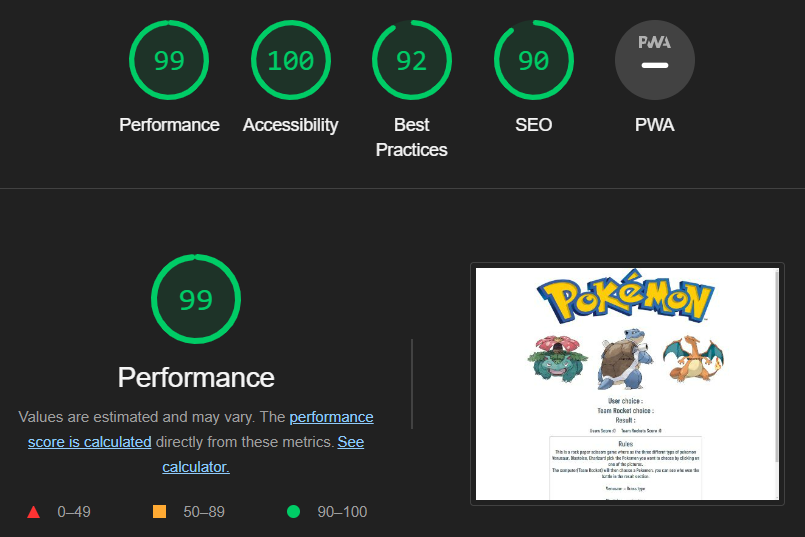
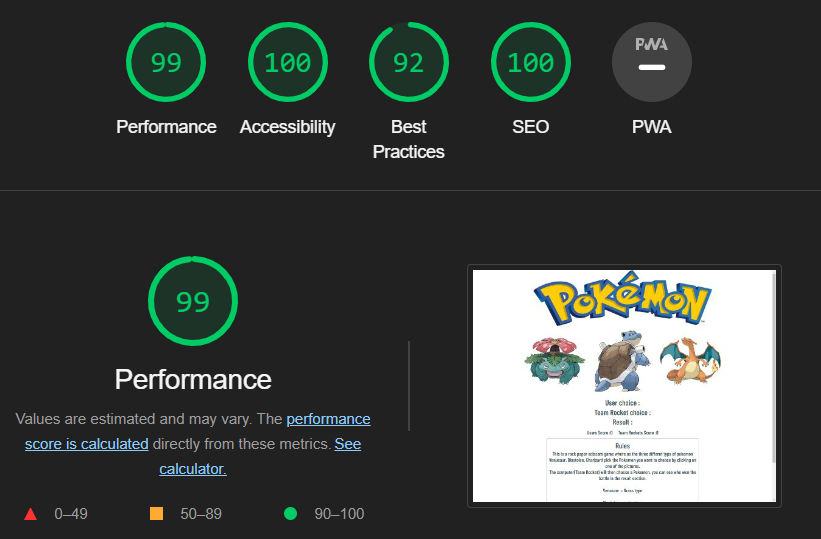
Hide text on the pokemon choice and add to readme

diff --git a/assets/css/style.css b/assets/css/style.css
@@ -47,6 +47,7 @@ body {
 
 /* --- Buttons */
 
+
 #Blastoise {
     background-image: url("https://assets.pokemon.com/assets/cms2/img/pokedex/full/009.png");
     place-content: center;
@@ -105,8 +106,7 @@ h2 {
 #Charizard,
 #Blastoise {
     background-color: transparent;
-    height: 300px;
-    width: 300px;
+    font-size:0px;
 }
 
 img {

diff --git a/index.html b/index.html
@@ -5,6 +5,7 @@
     <meta charset="UTF-8">
     <meta http-equiv="X-UA-Compatible" content="IE=edge">
     <meta name="viewport" content="width=device-width, initial-scale=1.0">
+    <meta name="description" content="Pokemon version of Rock, paper, scissors">
 
     <!--Google fonts-->
 

diff --git a/README.md b/README.md
@@ -114,7 +114,8 @@ Thanks to the tutors at Coding instatute and to my mentor Anthony for guiding me
 
 ## Content
 
-My correct answers where taken from love maths project.
-My font was taken from [Google Fonts](https://fonts.google.com/)
-My images where taken from [bulbagarden](https://bulbapedia.bulbagarden.net/wiki/File:0009Blastoise.png)
-Helping me come to turms with JavaScript [Youtube](https://www.youtube.com/watch?v=RwFeg0cEZvQ)
++ My correct answers where taken from love maths project.
++ My font was taken from [Google Fonts](https://fonts.google.com/)
++ My images where taken from [bulbagarden](https://pokemondb.net/pokedex/blastoise)
++ Helping me come to turms with JavaScript [Youtube](https://www.youtube.com/watch?v=RwFeg0cEZvQ)
++ help in hiding text in css [Quora](https://www.quora.com/How-do-you-hide-text-in-CSS)
